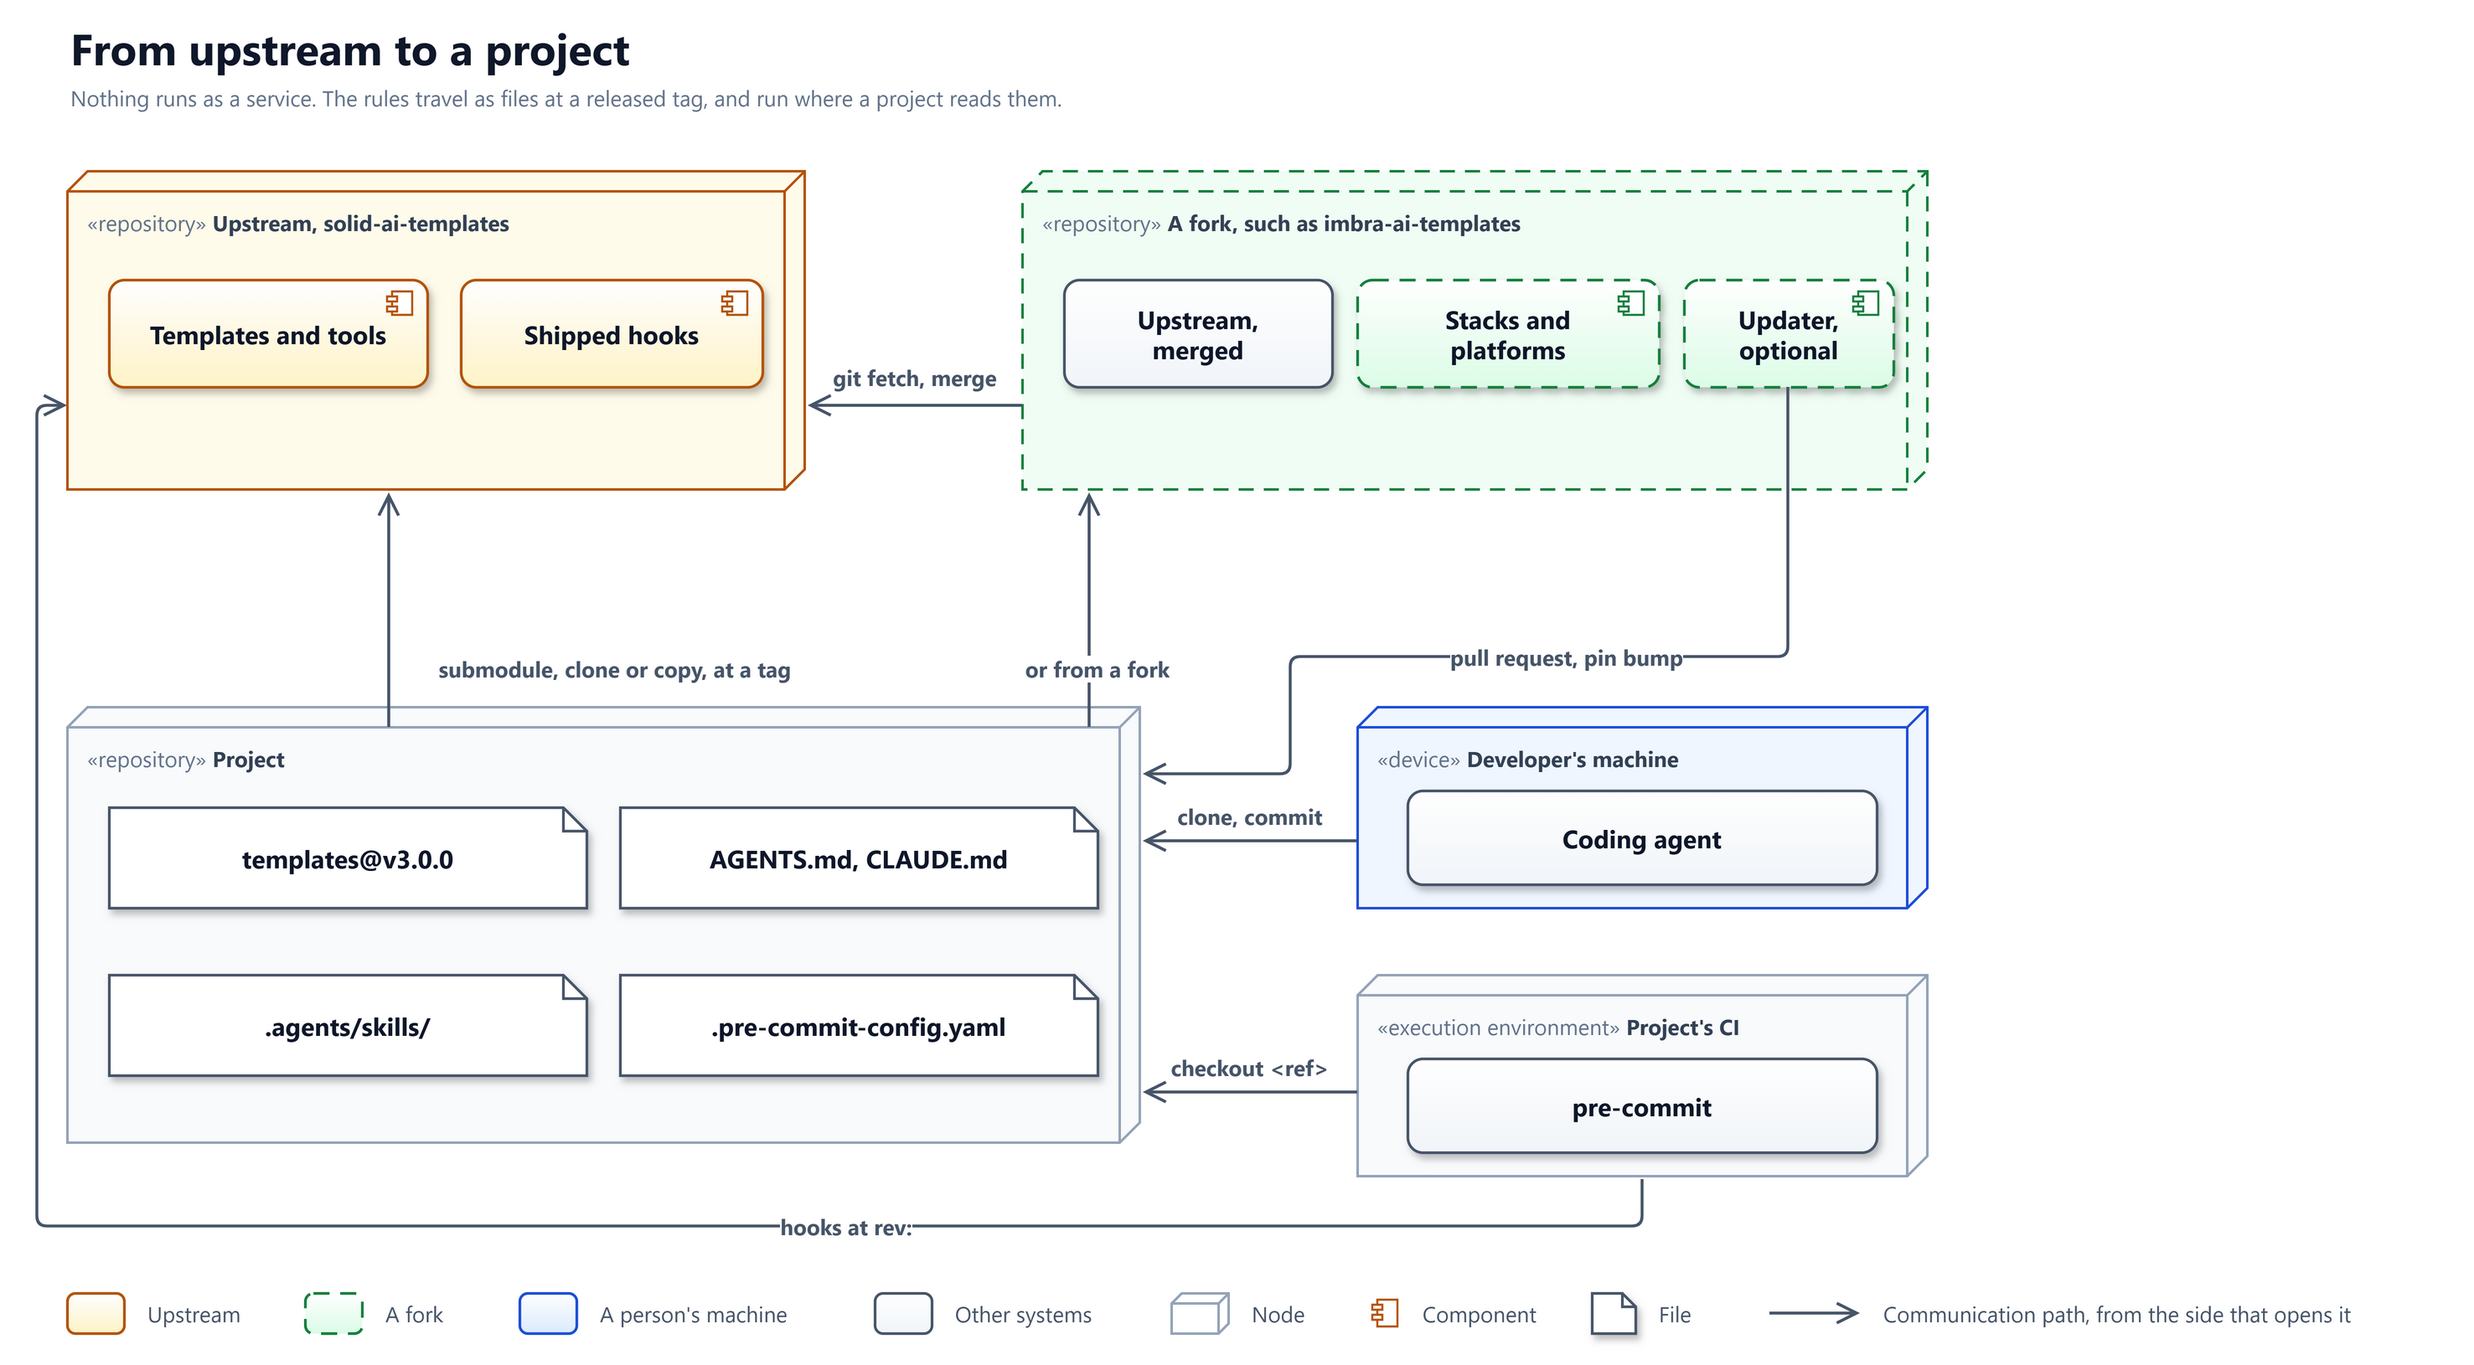
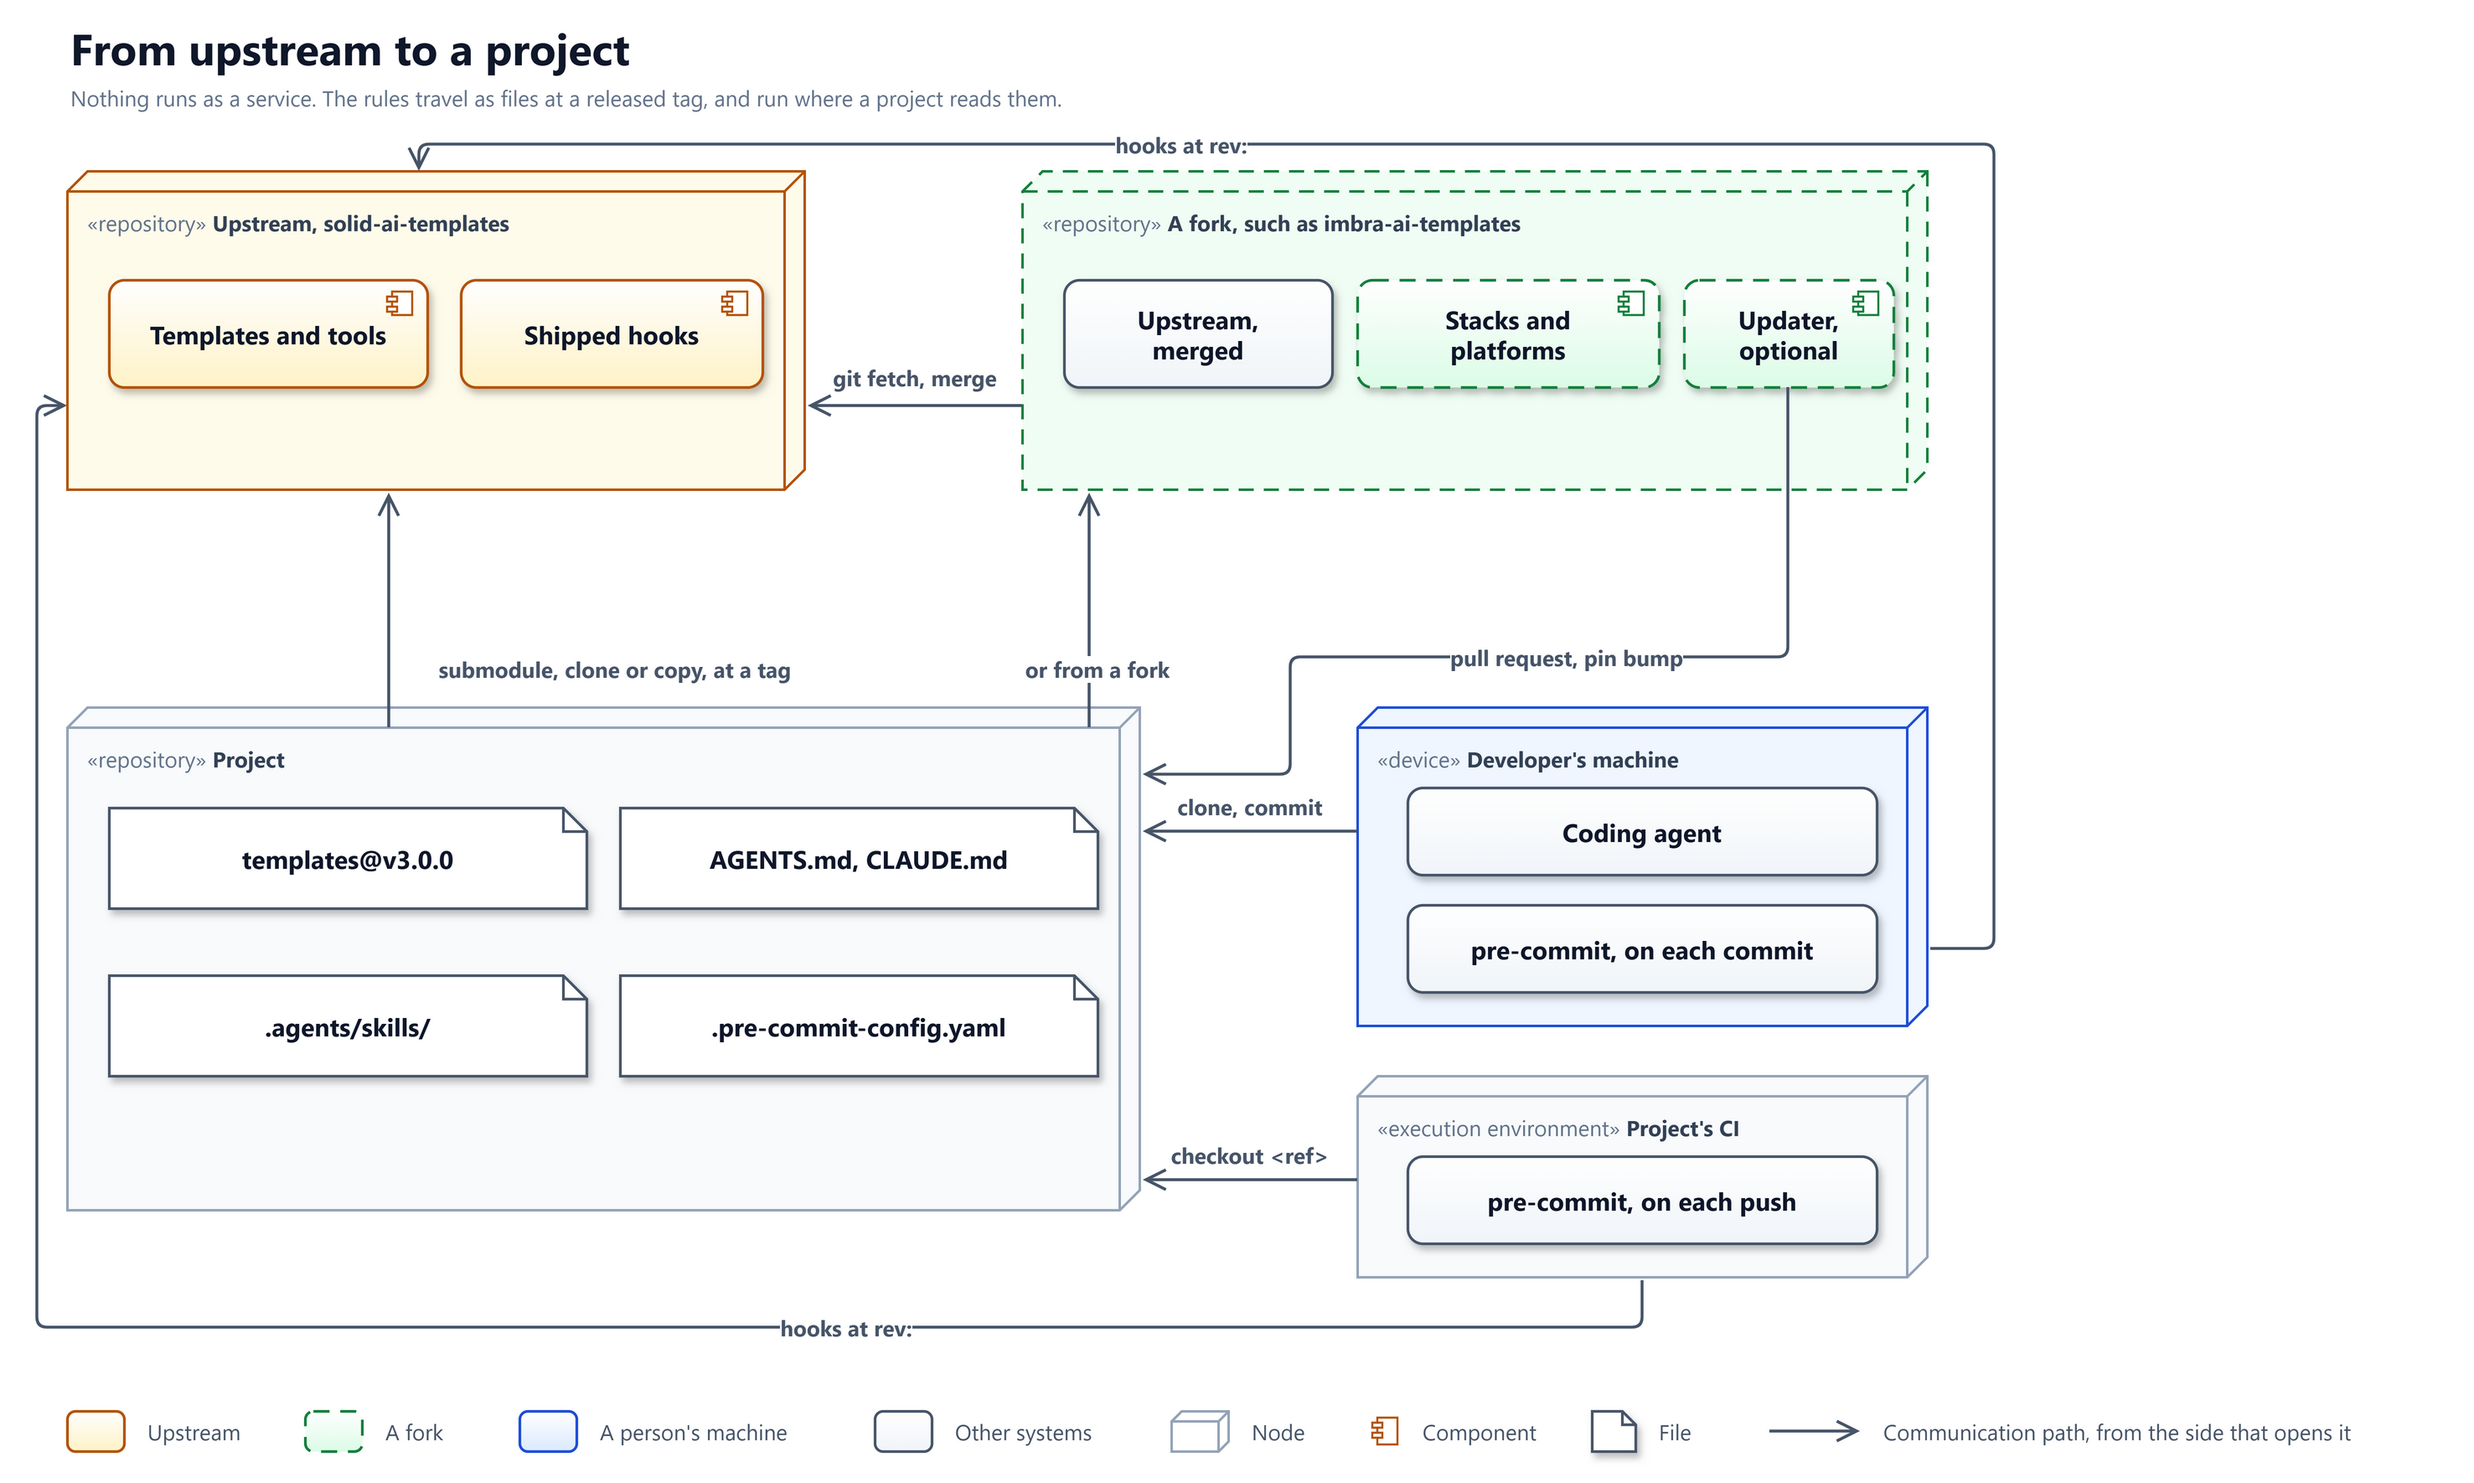
docs(architecture): show pre-commit on the developer's machine and in CI (#2410)
The local hook gives early feedback; CI is the gate every change passes.

Claude-Session: https://claude.ai/code/session_01DpT5xSVK2FLNdArtRtNjLH

diff --git a/docs/architecture/07-deployment-view.md b/docs/architecture/07-deployment-view.md
@@ -3,8 +3,9 @@
 How the rules reach a project and where they run. Nothing of upstream runs
 as a service. The templates travel as files at a released tag, the coding
 agent reads them on a developer's machine, and pre-commit runs the shipped
-hooks in the project's CI. A project chooses the source it takes the
-rules from, how it holds them, and who moves its pin.
+hooks on that machine and again in the project's CI. A project chooses
+the source it takes the rules from, how it holds them, and who moves its
+pin.
 
 The diagram is a UML deployment diagram. A 3D box is a node, such
 as a repository, a machine or an execution environment. An element drawn
@@ -13,15 +14,15 @@ arrow points from the side that opens it.
 
 ## 7.1 Level 1: from upstream to a project
 
-![From upstream to a project. Upstream, solid-ai-templates, holds the templates and tools and the shipped hooks. A fork, such as imbra-ai-templates, fetches and merges upstream, and adds its stacks and platforms and, optionally, an updater. The project repository pins the templates to a release tag, by submodule, clone or copy, from upstream or from a fork, and holds AGENTS.md and CLAUDE.md, the task skills under .agents/skills, and the pre-commit configuration. The updater opens a pull request with a pin bump to the project. The developer's machine runs the coding agent, which clones the project and commits to it. The project's CI checks out the commit, and pre-commit fetches the shipped hooks from upstream at the pinned revision](../diagrams/deployment-distribution.png)
+![From upstream to a project. Upstream, solid-ai-templates, holds the templates and tools and the shipped hooks. A fork, such as imbra-ai-templates, fetches and merges upstream, and adds its stacks and platforms and, optionally, an updater. The project repository pins the templates to a release tag, by submodule, clone or copy, from upstream or from a fork, and holds AGENTS.md and CLAUDE.md, the task skills under .agents/skills, and the pre-commit configuration. The updater opens a pull request with a pin bump to the project. The developer's machine runs the coding agent, which clones the project and commits to it, and pre-commit on each commit. The project's CI checks out the pushed commit and runs pre-commit on each push. Both pre-commit runs fetch the shipped hooks from upstream at the pinned revision](../diagrams/deployment-distribution.png)
 
 | Node | What it holds | Source |
 |------|---------------|--------|
 | Upstream | The templates, the tools and the shipped hooks, released as tags | FR-09-01 |
 | A fork | Upstream's history, merged, with its own stacks, platforms and process | FR-08-01, ADR-050 |
 | Project | The pinned templates, its context files, its task skills and its pre-commit configuration | FR-08-04, FR-05-04 |
-| Developer's machine | The coding agent, which generates the context files from the project's copy of the templates | FR-05-01 |
-| Project's CI | pre-commit, which fetches the shipped hooks at the revision the project pinned | FR-07-02, ADR-055 |
+| Developer's machine | The coding agent, which generates the context files from the project's copy of the templates, and pre-commit, which git's hook runs on each commit for early feedback | FR-05-01, ADR-055 |
+| Project's CI | pre-commit, on each push, the gate every change passes, since a local hook is optional and can be skipped. Both runs fetch the shipped hooks at the revision the project pinned | FR-07-02, ADR-055 |
 
 ## 7.2 Source
 
